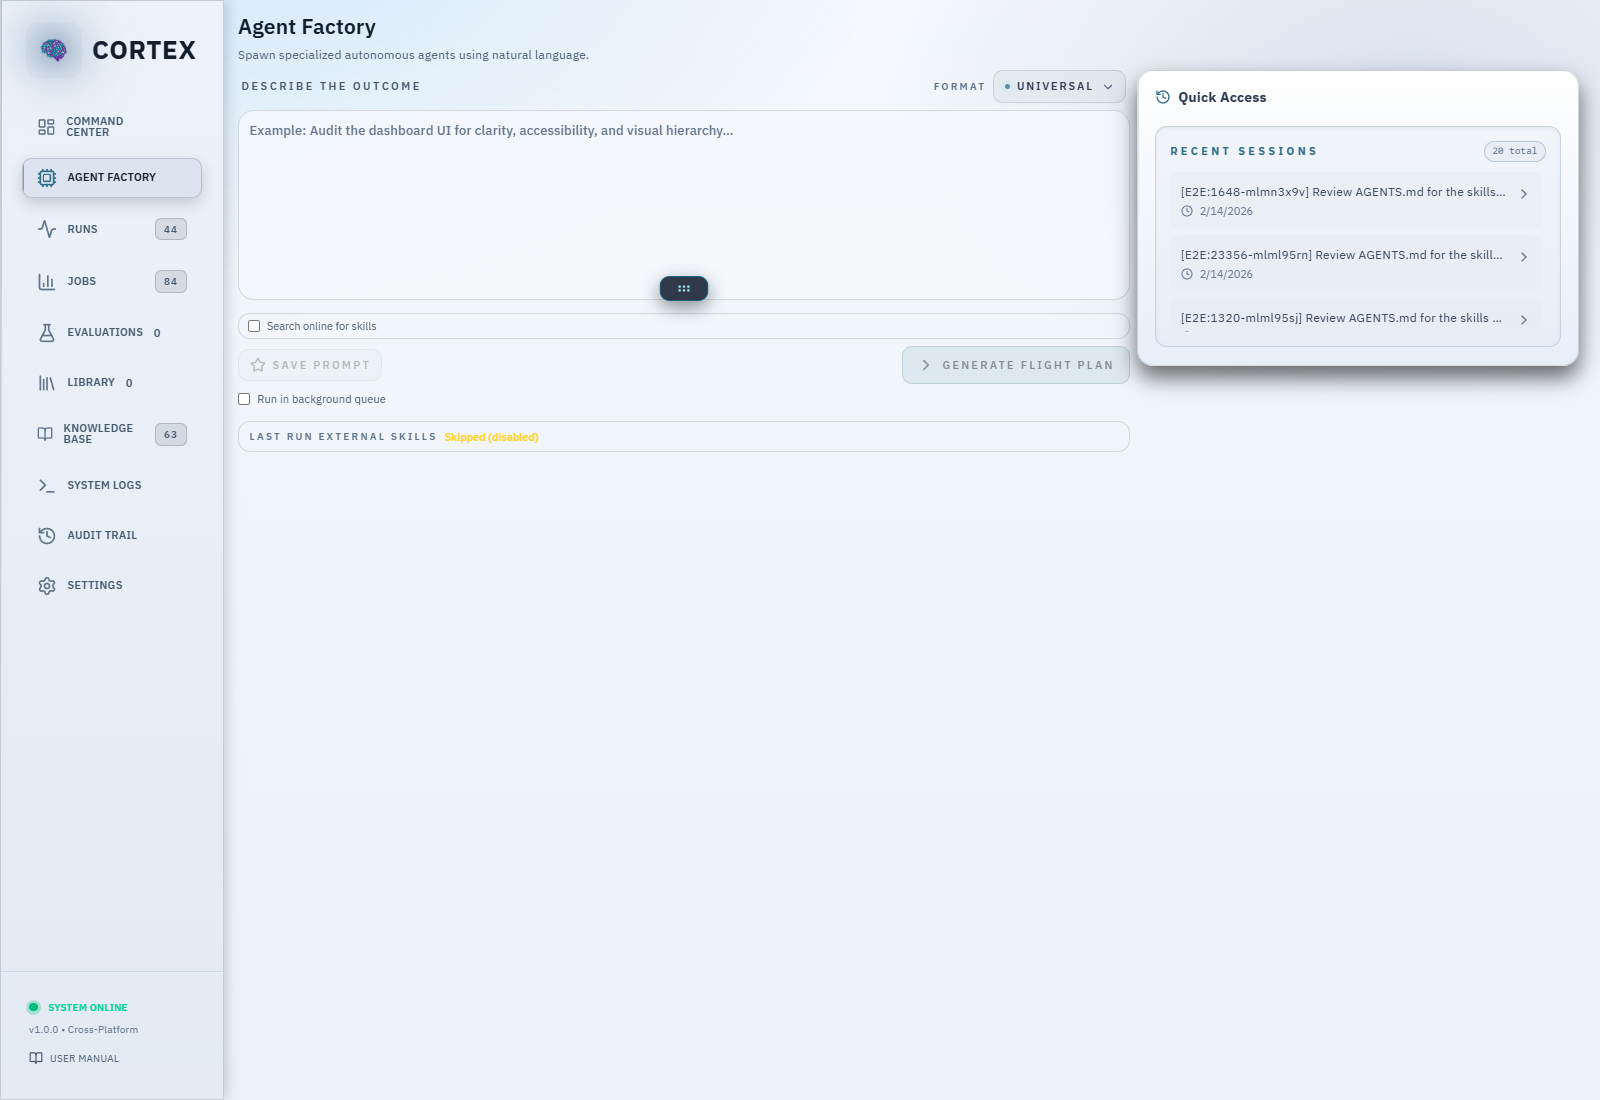
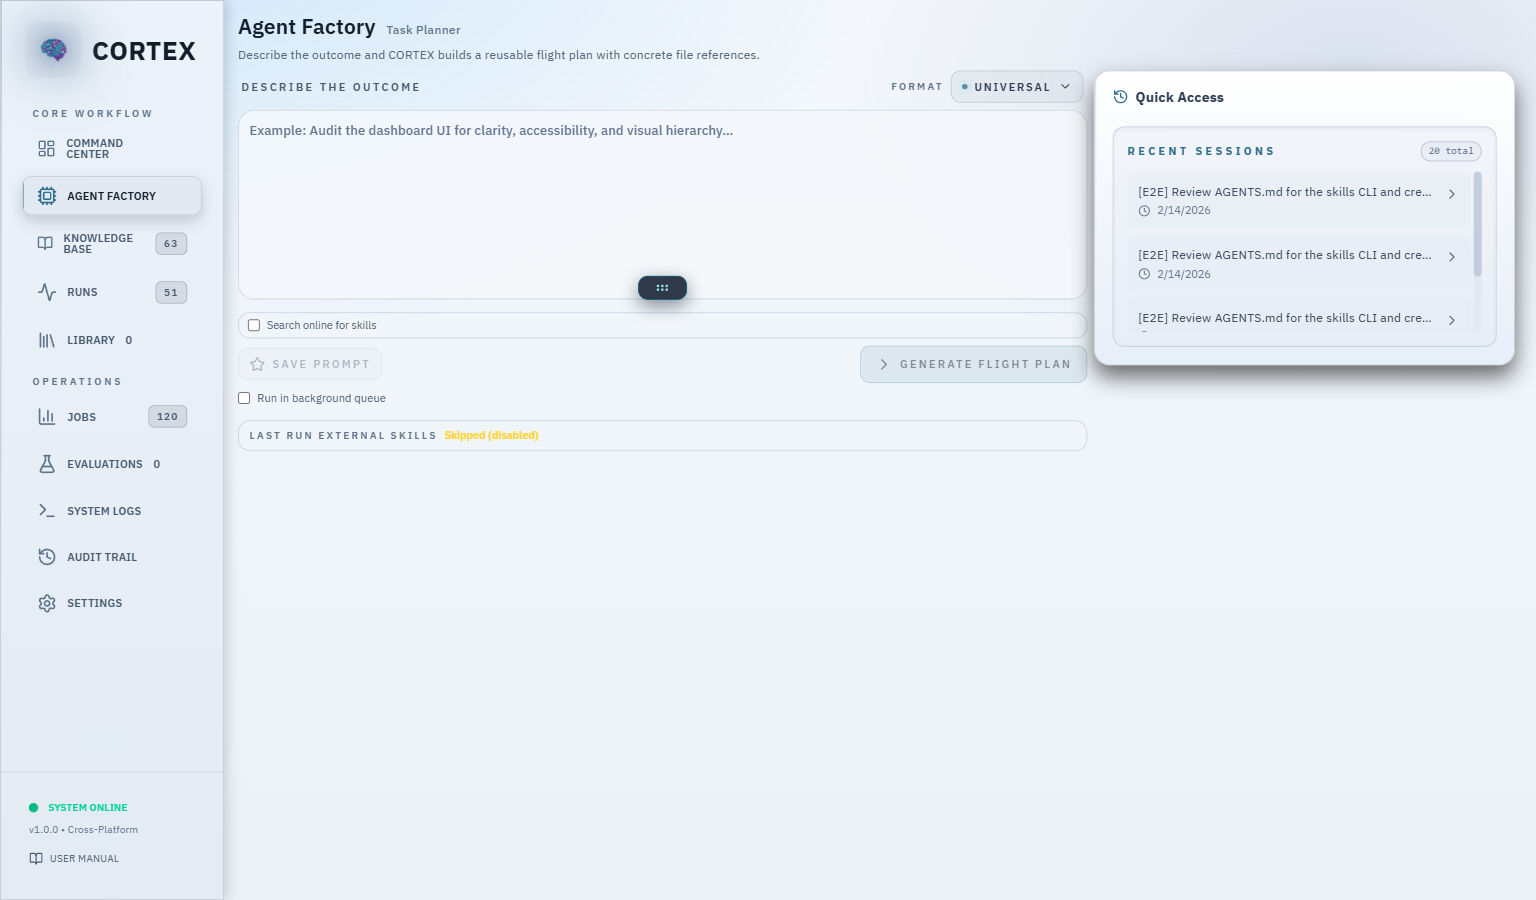
[codex] phase 4: refresh user manual and README screenshots (#38)
* docs: refresh manuals and regenerate UI screenshots

* docs: align terminology across manual and readme

diff --git a/docs/user-manual/index.html b/docs/user-manual/index.html
@@ -261,7 +261,7 @@
     <div class="header-row">
       <div>
         <h1>CORTEX User Manual</h1>
-        <p class="muted">Version 1.0.0 | Last Updated: February 2026</p>
+        <p class="muted">Version 1.0.0 | Last Updated: February 14, 2026 (Phase 4 refresh)</p>
       </div>
     </div>
   </header>
@@ -561,6 +561,13 @@ git pull</code></pre>
         <li>Import to upload a previously exported dataset.</li>
       </ul>
 
+      <h3>Empty-State Shortcuts</h3>
+      <ul>
+        <li>If no datasets exist, use <strong>Open Agent Factory</strong> directly from the empty state.</li>
+        <li>If no evaluations exist, use <strong>Open Runs</strong> directly from the empty state.</li>
+        <li>When a response evaluation is selected and there are no runs, CORTEX shows an inline warning with a direct <strong>Open Agent Factory</strong> action.</li>
+      </ul>
+
       <h3>Score a Run</h3>
       <ol>
         <li>Select a dataset and a recent run.</li>
@@ -615,6 +622,12 @@ git pull</code></pre>
         <li>Review tools registered in the tools folder.</li>
       </ul>
 
+      <h3>Empty-State Shortcuts</h3>
+      <ul>
+        <li>Saved Prompts empty state includes <strong>Open Agent Factory</strong>.</li>
+        <li>Agent Templates and Tools &amp; Utilities empty states include <strong>Open Knowledge Base</strong>.</li>
+      </ul>
+
       <figure>
         <img src="screenshots/library.png" alt="Library" />
         <figcaption>Library view.</figcaption>
@@ -624,6 +637,14 @@ git pull</code></pre>
     <section id="workspaces">
       <h2>Workspaces</h2>
       <p>Workspaces isolate repositories, runs, evaluations, and audit trails per team or customer.</p>
+      <h3>Reference Root Layout</h3>
+      <pre><code>reference-repos/
+  agents/
+  skills/
+  knowledge/
+  tools/
+  benchmarks/   (optional)</code></pre>
+      <p>If you do not use a dedicated <code>training/</code> folder, store training and benchmark assets in <code>benchmarks/</code> or <code>knowledge/</code>.</p>
       <h3>Create a Workspace</h3>
       <ol>
         <li>Open Settings and select Workspaces.</li>
@@ -672,6 +693,7 @@ git pull</code></pre>
     <section id="settings">
       <h2>Settings</h2>
       <p>Configure repository roots, authentication, observability alerts, and workspace settings.</p>
+      <p>Settings is organized into tabs: <code>General</code>, <code>Security</code>, <code>Workspaces</code>, <code>Processing</code>, and <code>Observability</code>.</p>
       <figure>
         <img src="screenshots/settings.png" alt="Settings" />
         <figcaption>Settings view.</figcaption>

diff --git a/USER_MANUAL.md b/USER_MANUAL.md
@@ -1,7 +1,7 @@
 # CORTEX User Manual
 
 **Version 1.0.0**  
-**Last Updated: February 14, 2026**
+**Last Updated: February 14, 2026 (Phase 4 refresh)**
 
 ---
 
@@ -144,7 +144,7 @@ Open the Knowledge Base view. Your new repository should appear in the appropria
 
 ## UI Screenshot Gallery
 
-These screenshots were captured from a live local CORTEX instance on **February 14, 2026**.
+These screenshots were captured from a live local CORTEX instance on **February 14, 2026** after the Settings IA and onboarding CTA updates.
 
 ### Command Center
 ![Command Center](docs/screenshots/command-center.png)
@@ -182,18 +182,21 @@ These screenshots were captured from a live local CORTEX instance on **February 
 
 ### Navigation
 
-The sidebar contains the primary workspace areas:
+The sidebar is grouped into:
 
-1. **ðŸ  Command Center**: Overview of runs, evaluations, and knowledge coverage
-2. **ðŸ Agent Factory**: Spawn specialized AI agents
-3. **ðŸ§ Runs**: Trace explorer with decision matrices and performance signals
-4. **ðŸ§µ Jobs**: Background queue monitoring
-5. **ðŸ§ª Evaluations**: Dataset management and run scoring
-6. **ðŸ“¦ Library**: Saved prompts, agent templates, and tools
-7. **ðŸ“š Knowledge Base**: Manage reference repositories
-8. **ðŸ§¾ Audit Trail**: Compliance events and security logs
-9. **ðŸ“œ Logs**: Real-time operation logs
-10. **âš™ï¸ Settings**: Configuration options
+**Core Workflow**
+1. **Command Center**: Overview of runs, evaluations, and knowledge coverage
+2. **Agent Factory**: Spawn specialized AI agents
+3. **Knowledge Base**: Manage reference repositories
+4. **Runs**: Trace explorer with decision matrices and performance signals
+5. **Library**: Saved prompts, agent templates, and tools
+
+**Operations**
+1. **Jobs**: Background queue monitoring
+2. **Evaluations**: Dataset management and run scoring
+3. **System Logs**: Real-time operation logs
+4. **Audit Trail**: Compliance events and security logs
+5. **Settings**: Configuration options
 
 ### Command Center Cards
 
@@ -387,6 +390,11 @@ The Job Queue keeps long-running tasks responsive:
 
 Evaluations let you score runs against curated datasets.
 
+### Empty-State Shortcuts
+- If no datasets exist yet, use **Open Agent Factory** to generate a run context first.
+- If no evaluations exist yet, use **Open Runs** to pick candidate runs before scoring.
+- When response evaluation is selected and no runs are available, CORTEX shows an inline warning with a direct **Open Agent Factory** action.
+
 ### Create a Dataset
 1. Go to **Evaluations**.
 2. Name a dataset and add prompt/expected outcome pairs (use `regex:` or switch the type to Regex).
@@ -420,6 +428,11 @@ Evaluations let you score runs against curated datasets.
 
 The Library keeps reusable assets in one place.
 
+### Empty-State Shortcuts
+- **Saved Prompts** empty state includes **Open Agent Factory**.
+- **Agent Templates** and **Tools & Utilities** empty states include **Open Knowledge Base**.
+- These shortcuts are designed to reduce dead ends during first-time setup.
+
 ### Saved Prompts
 - Save prompts from Agent Factory.
 - Reuse them directly from the Library.
@@ -433,6 +446,20 @@ The Library keeps reusable assets in one place.
 ## Workspaces
 
 Workspaces let you isolate repositories, runs, evaluations, and audit trails per team or customer.
+
+### Reference Root Layout
+For most teams, use this reference root structure:
+
+```text
+reference-repos/
+  agents/
+  skills/
+  knowledge/
+  tools/
+  benchmarks/   (optional)
+```
+
+If you do not maintain a dedicated `training/` folder, keep training and benchmark assets in `benchmarks/` or `knowledge/`.
 
 ### Create a Workspace
 1. Open **Settings -> Workspaces**.
@@ -463,6 +490,14 @@ The Audit Trail records securityâ€‘relevant actions (spawns, evaluations, c
 ---
 
 ## Security & Access
+
+### Settings Tabs
+Settings are organized into tabs:
+- `General`
+- `Security`
+- `Workspaces`
+- `Processing`
+- `Observability`
 
 ### Enable Authentication
 1. Open **Settings**.

diff --git a/README.md b/README.md
@@ -62,6 +62,31 @@ We decouple **Data** (your local repositories) from **Intelligence** (the LLM), 
 
 ---
 
+## February 14, 2026 Product Update
+
+- Added tabbed Information Architecture in **Settings** (`General`, `Security`, `Workspaces`, `Processing`, `Observability`).
+- Added actionable empty states:
+  - **Library** now includes direct actions to open Agent Factory and Knowledge Base.
+  - **Evaluations** now includes direct actions to open Runs and Agent Factory.
+- Refreshed all primary UI screenshots in `docs/screenshots/` from the live app.
+
+### Reference Root Layout (Verified)
+
+Based on the active reference root (`D:\Projects\reference-repos`), this structure is recommended:
+
+```text
+reference-repos/
+  agents/
+  skills/
+  knowledge/
+  tools/
+  benchmarks/   (optional, for benchmark/training-style assets)
+```
+
+`training/` is optional. If you do not use a dedicated `training/` folder, keep training and benchmark assets in `benchmarks/` or `knowledge/`.
+
+---
+
 ## Key Features
 
 ### ðŸ **Agent Factory**
